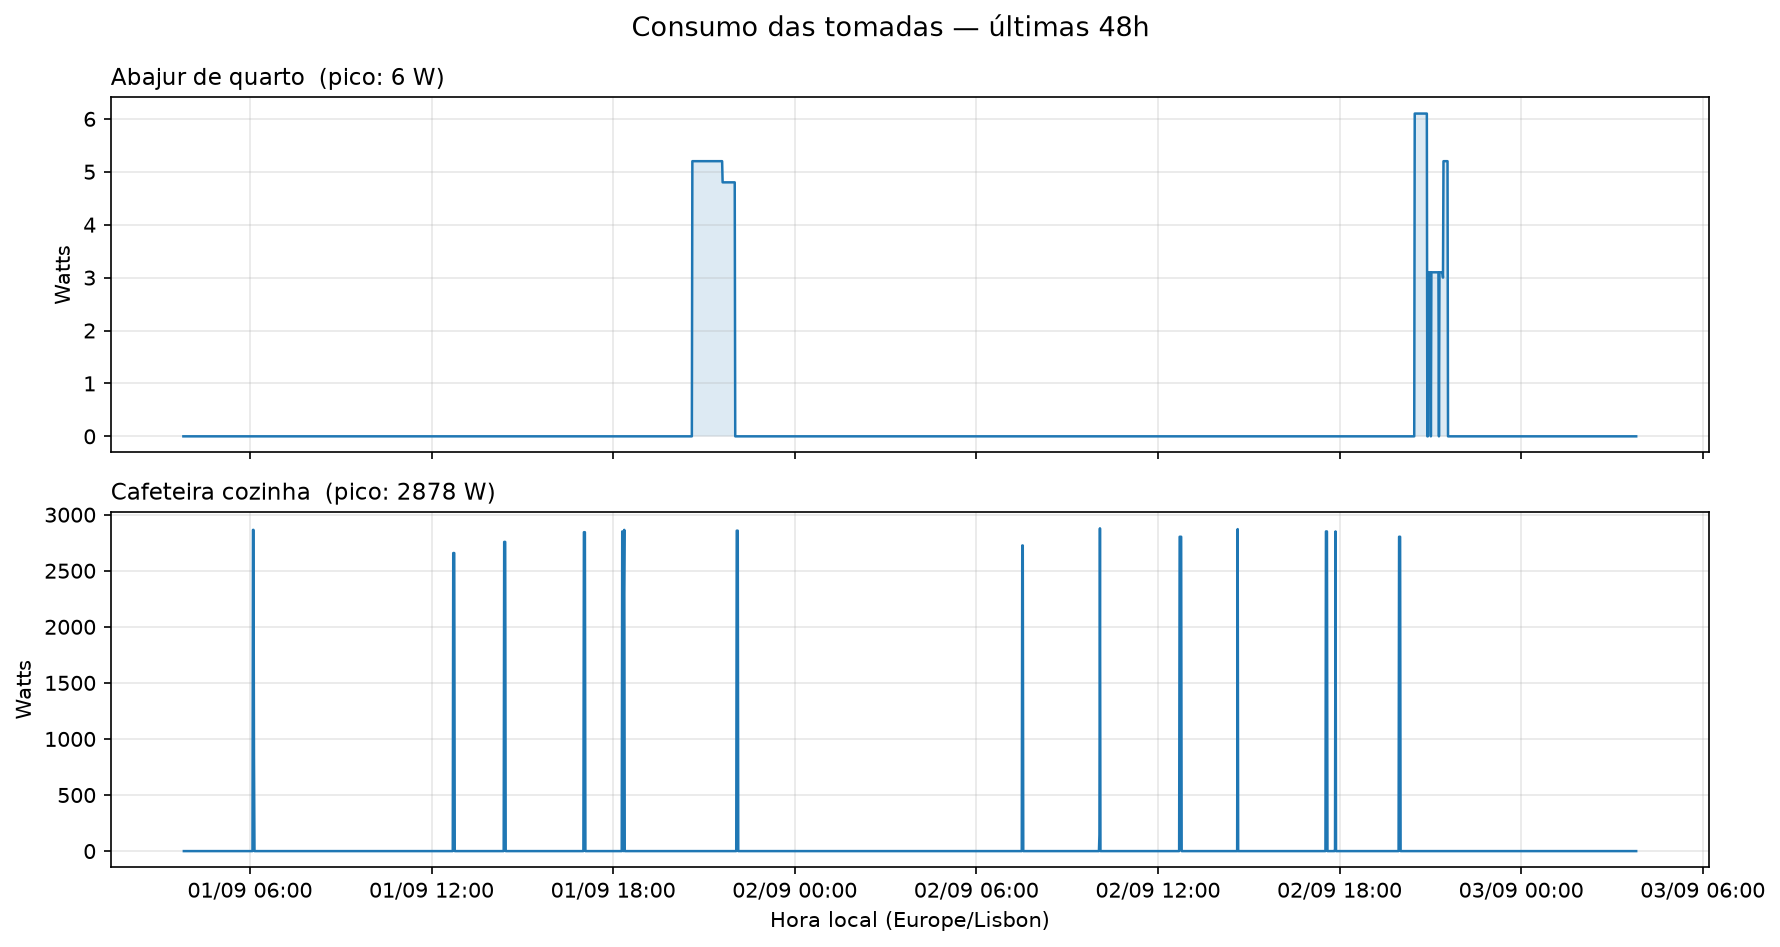
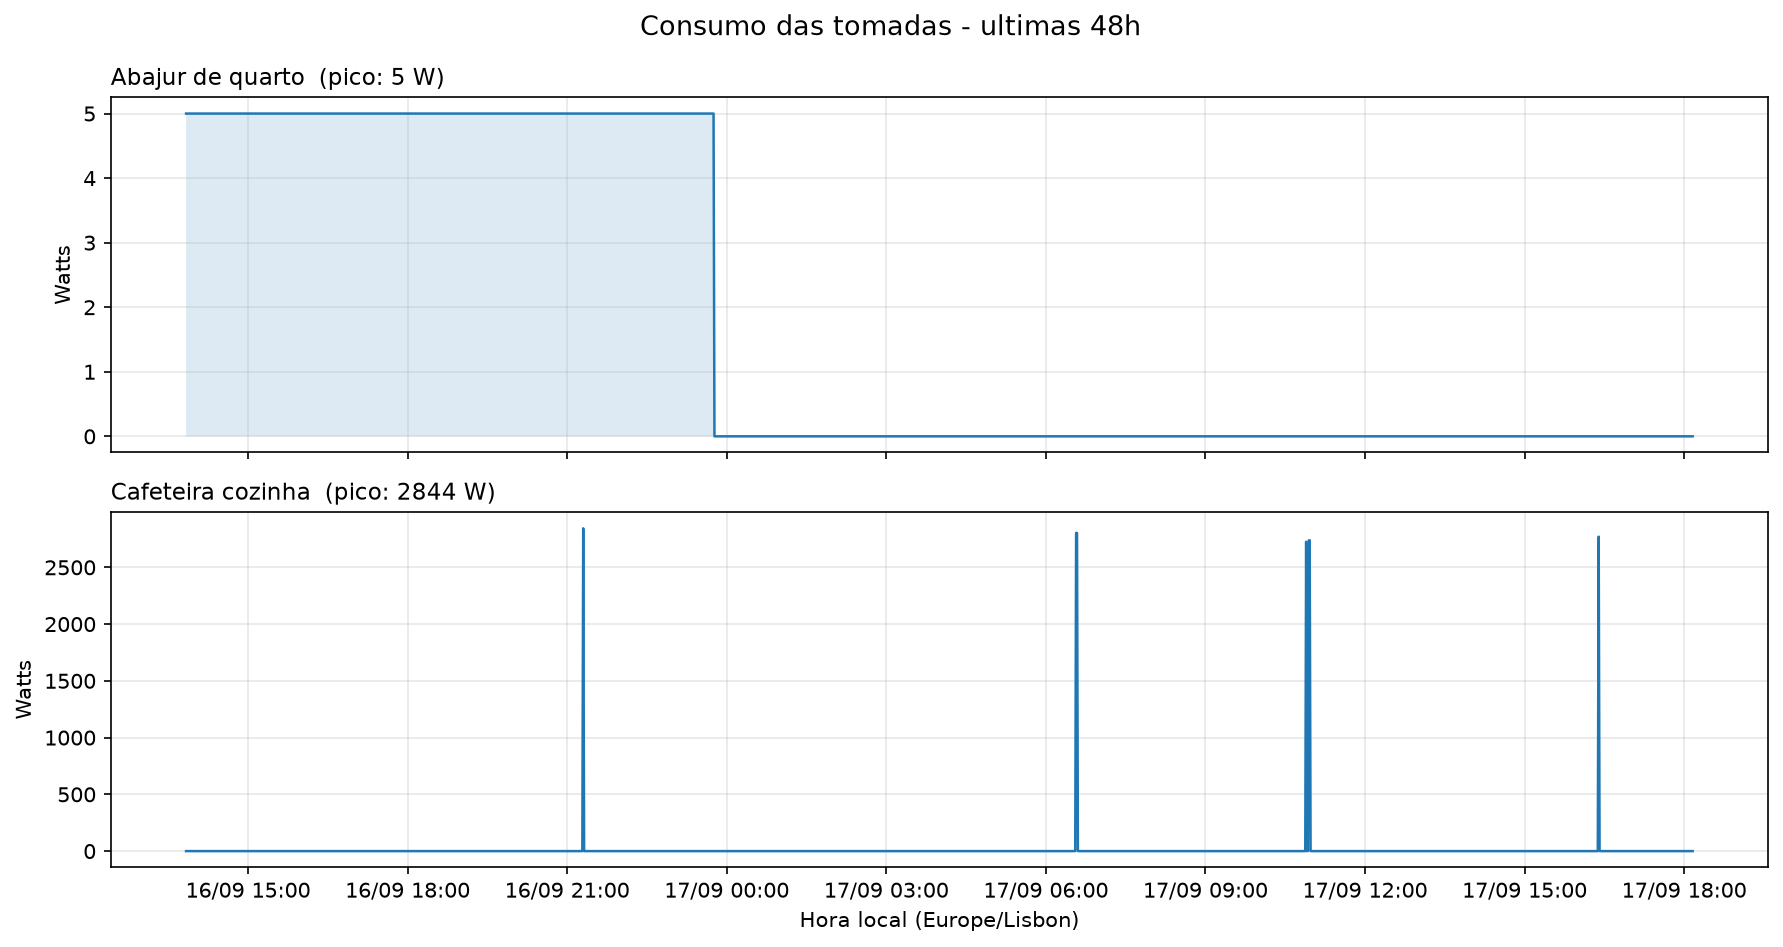
Phase 3 - Update READEME.md

diff --git a/README.md b/README.md
@@ -73,9 +73,30 @@ endpoint, fetched every poll.
 
 ## interface/
 
-Read-only tooling. `data_access.py` is the shared DB layer. Chart generators
-render the routine chart (learned routine + day-by-day state strip) and the
-consumption curve.
+Read-only tooling on top of the collected data. Nothing here writes to the
+database. `data_access.py` is the shared DB layer used by the charts and the
+api.
+
+`make_charts.py` is the chart CLI. Run it from the project root, next to
+`.env`:
+
+```
+python -m interface.make_charts --all              # routine + consumption
+python -m interface.make_charts --routine          # learned routine only
+python -m interface.make_charts --consumption --hours 48   # power curve
+python -m interface.make_charts --routine --out reports/   # choose output dir
+```
+
+- `--routine` renders, per device with a usable signal, the learned routine
+  (per-hour activity probability with peak hours highlighted and quiet hours
+  shaded) plus a day-by-day state strip (GREEN / YELLOW / RED / SEM DADOS).
+  Low-signal devices (e.g. an LED lamp) are skipped for the routine chart.
+  Output: `routine.png`.
+- `--consumption` renders the last N hours (default 48, set with `--hours`) of
+  power draw per device. Output: `consumption.png`.
+- `--all` (the default if no flag is given) renders both.
+- `--out DIR` sets the output directory (default: current directory).
+- Time zone follows `CHART_TZ` (default Europe/Lisbon).
 
 ## api/  (Phase 3 web layer)
 
